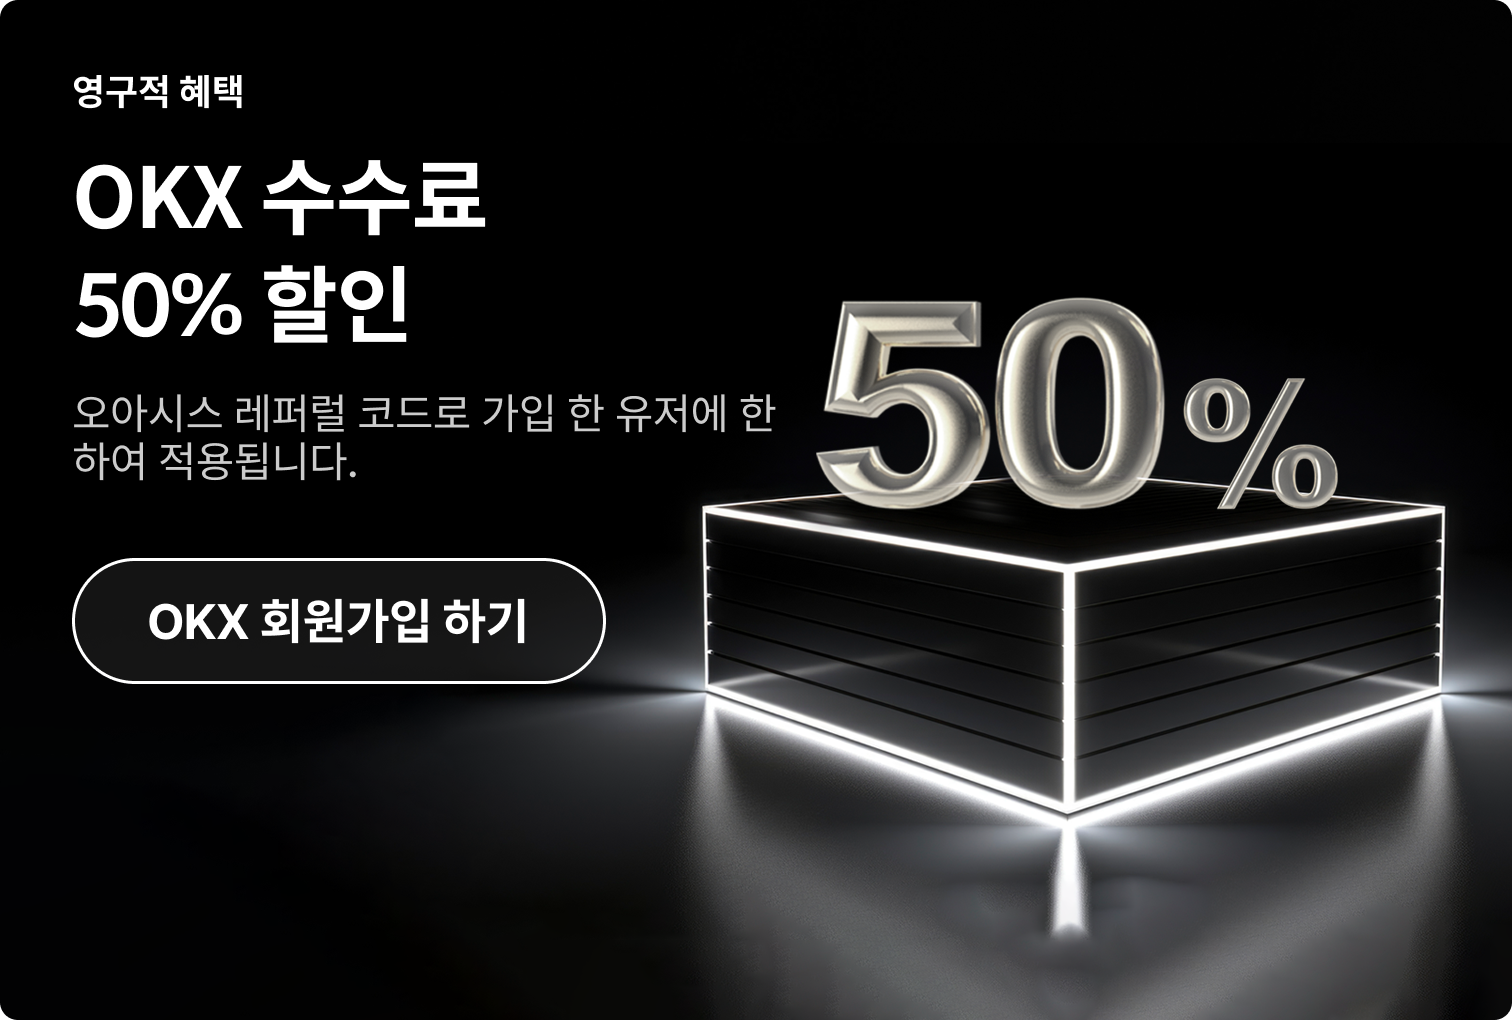
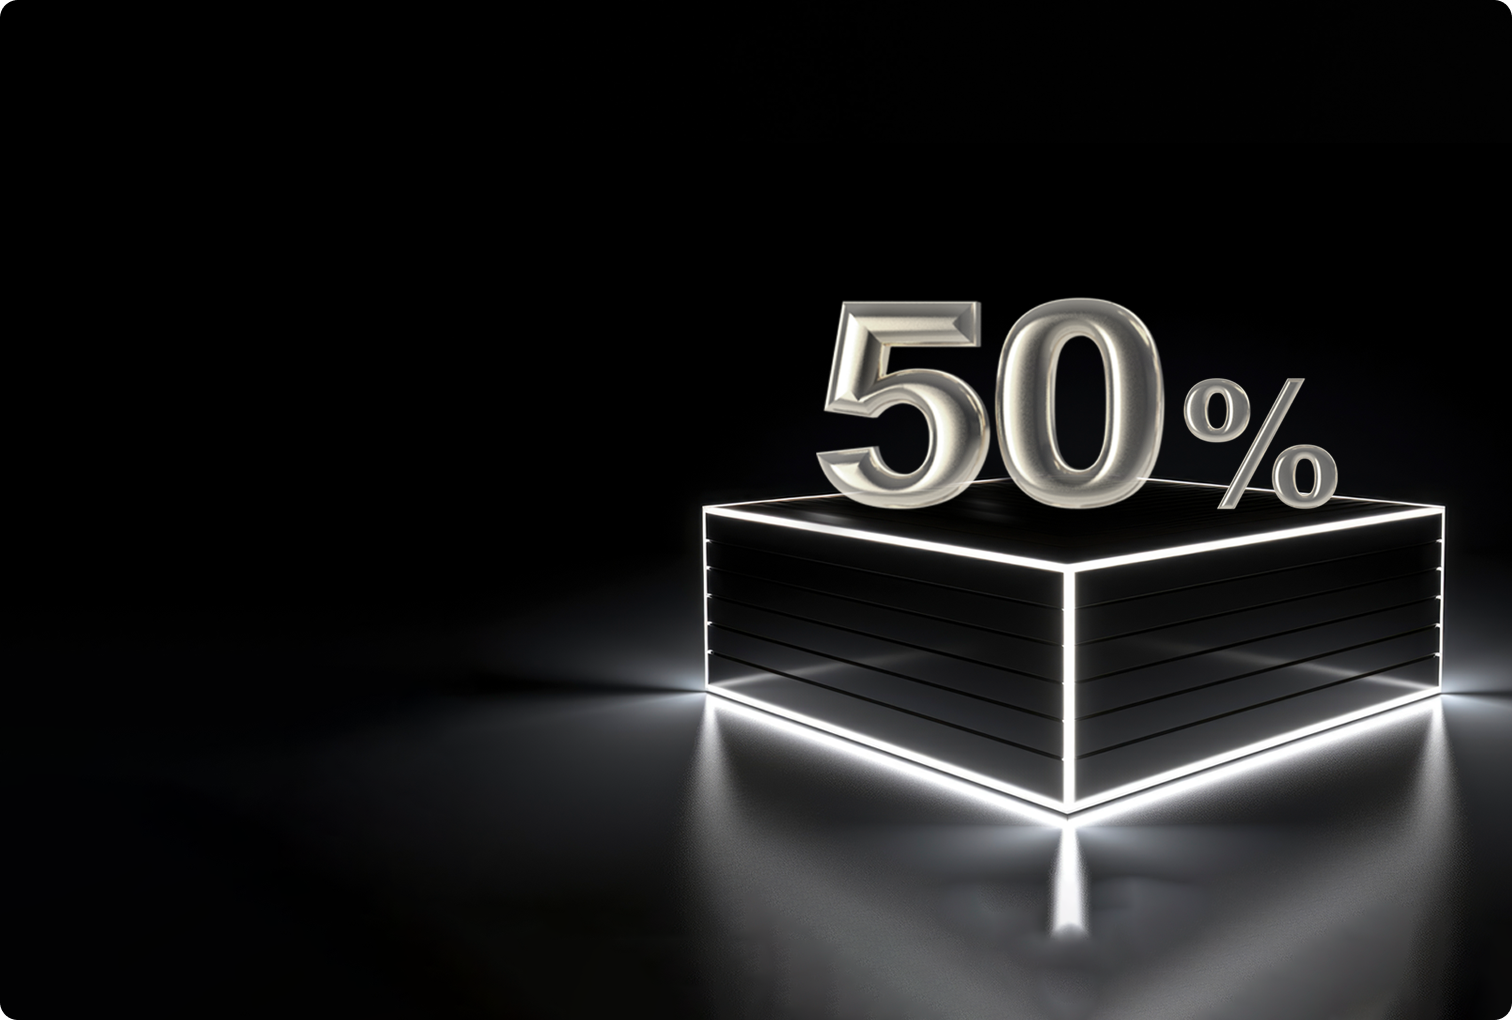
배너변경

diff --git a/src/cards/dashboard/AdvertisementCard/index.tsx b/src/cards/dashboard/AdvertisementCard/index.tsx
@@ -32,24 +32,30 @@ export default function AdvertisementCard() {
     <Card>
       <Stack direction="row" className="h-full w-[300%] duration-500" ref={ref}>
         <AdvertisementInfo
-          semiTitle="5TH 폴리곤 OPEN"
-          title={`꾸준히 보상이 쌓이는\nOASIS 스테이킹`}
-          description={`디지털 자산을 블록체인 검증에 활용하도록\n맡기고 보상을 받으세요`}
-          bgSrc="/advertisement/ad1.jpg"
+          semiTitle="영구적 혜택"
+          title={`OKX 수수료\n50% 할인`}
+          description={`오아시스 레퍼럴 코드로 가입한 유저에\n한하여 적용됩니다`}
+          bgSrc="/advertisement/event1.png"
+          btn="OKX 회원가입 하기"
+          onClick={() => window.open("https://www.okx.com/join/79271938")}
         />
 
         <AdvertisementInfo
-          semiTitle="5TH 폴리곤 OPEN"
-          title={`꾸준히 보상이 쌓이는\nOASIS 스테이킹`}
-          description={`디지털 자산을 블록체인 검증에 활용하도록\n맡기고 보상을 받으세요`}
-          bgSrc="/advertisement/ad1.jpg"
+          semiTitle="Smart Access"
+          title={`업비트 원클릭\n계정 연동`}
+          description={`KYC 2차 인증 완료 후 원클릭 스마트\n엑세스 계정이 연결이 가능합니다`}
+          bgSrc="/advertisement/event2.png"
+          btn="KYC 2차 인증 하기"
+          onClick={() => console.log("자세히보기")}
         />
 
         <AdvertisementInfo
-          semiTitle="5TH 폴리곤 OPEN"
-          title={`꾸준히 보상이 쌓이는\nOASIS 스테이킹`}
-          description={`디지털 자산을 블록체인 검증에 활용하도록\n맡기고 보상을 받으세요`}
-          bgSrc="/advertisement/ad1.jpg"
+          semiTitle="Preset Setting"
+          title={`완벽한 프리셋 설정`}
+          description={`가이드라인을 통해\n완벽한 프리셋 설정을 세팅해 보세요`}
+          bgSrc="/advertisement/event3.png"
+          btn="가이드라인 보러가기"
+          onClick={() => console.log("자세히보기")}
         />
       </Stack>
       <AdvertisementIndex maxIndex={MAX_INDEX} currentIndex={currentIndex} />

diff --git a/src/cards/dashboard/AdvertisementCard/AdvertisementInfo.tsx b/src/cards/dashboard/AdvertisementCard/AdvertisementInfo.tsx
@@ -9,6 +9,8 @@ interface AdvertisementInfoProps {
   title: string;
   description: string;
   bgSrc: string;
+  btn: string;
+  onClick: (event: React.MouseEvent<HTMLElement>) => void;
 }
 
 export default function AdvertisementInfo({
@@ -16,6 +18,8 @@ export default function AdvertisementInfo({
   title,
   description,
   bgSrc,
+  btn,
+  onClick,
 }: AdvertisementInfoProps) {
   return (
     <Box className="relative h-full w-full">
@@ -32,13 +36,13 @@ export default function AdvertisementInfo({
         <Box className="h-full w-full bg-black opacity-50" />
       </Box>
       <Stack className="absolute gap-6 p-4 text-white">
-        <Stack className="max-w-[250px] gap-2">
+        <Stack className="max-w-[250px] gap-2 whitespace-pre-line">
           <Typography variant="100B">{semiTitle}</Typography>
           <Typography variant="h4">{title}</Typography>
           <Typography variant="200M">{description}</Typography>
         </Stack>
-        <AdvertismentButton>
-          <Typography variant="300B">자세히보기</Typography>
+        <AdvertismentButton onClick={onClick}>
+          <Typography variant="300B">{btn}</Typography>
         </AdvertismentButton>
       </Stack>
     </Box>

diff --git a/src/cards/dashboard/AdvertisementCard/AdvertismentButton.tsx b/src/cards/dashboard/AdvertisementCard/AdvertismentButton.tsx
@@ -1,8 +1,17 @@
 import { ButtonBase } from "@mui/material";
 
-function AdvertismentButton({ children }: { children: React.ReactNode }) {
+function AdvertismentButton({
+  children,
+  onClick,
+}: {
+  children: React.ReactNode;
+  onClick: (event: React.MouseEvent<HTMLElement>) => void;
+}) {
   return (
-    <ButtonBase className="w-fit rounded-full bg-[#22222299] px-6 py-3 text-white">
+    <ButtonBase
+      className="w-fit rounded-full bg-[#22222299] px-6 py-3 shadow-[0_0_0_1px_rgba(255,255,255,1)]"
+      onClick={onClick}
+    >
       {children}
     </ButtonBase>
   );

diff --git a/src/layouts/Carousel/index.tsx b/src/layouts/Carousel/index.tsx
@@ -16,6 +16,7 @@ export default function Carousel({ children, minWidth }: CarouselProps) {
   const { size, componentRef } = useComponentSize();
   const { size: childSize, componentRef: childRef } = useComponentSize();
   const [align, setAlign] = useState<"left" | "right">("left");
+
   return (
     <Box ref={componentRef} className="relative w-full" sx={{ height: `${childSize.height}px` }}>
       <Box className="absolute w-full" sx={{ minWidth: `${minWidth}px` }}>
